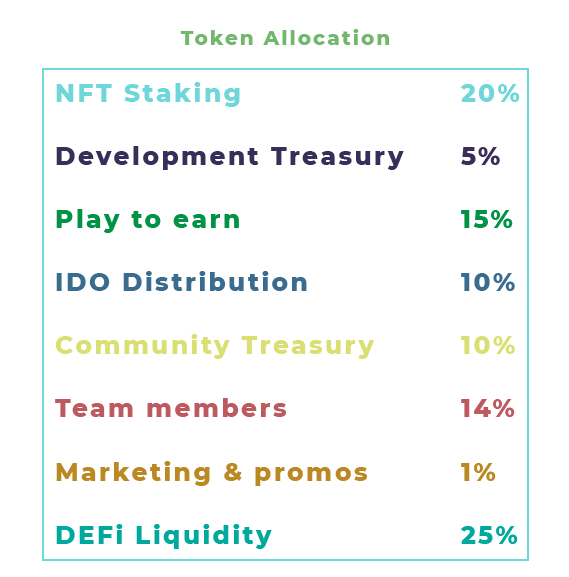
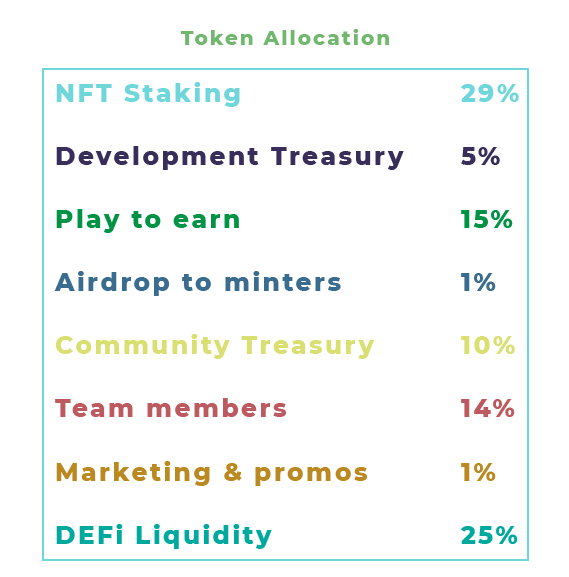
Change date

Changed region(s): [[0.0896, 0.4679, 0.5975, 0.5303], [0.8366, 0.4679, 0.8963, 0.5303], [0.8366, 0.156, 0.9262, 0.1872]]

diff --git a/index.html b/index.html
@@ -246,7 +246,7 @@
                         <div class="ms-lg-4">
                             <div class="section-title mb-4 pb-2">
                                 <h4 class="title mb-4" data-aos="fade-up" data-aos-duration="1000">The Goblin Raid Collection</h4>
-                                <p class="text-muted para-desc" data-aos="fade-up" data-aos-duration="1300">Goblin raid is a Collection of <span class="text-primary fw-bold"></span>2000 blue-chip NFTs</span> that serve as a membership key in the 
+                                <p class="text-muted para-desc" data-aos="fade-up" data-aos-duration="1300">Goblin raid is a Collection of <span class="text-primary fw-bold"></span>1000 blue-chip NFTs</span> that serve as a membership key in the 
                                     Goblin raid  DAO. Our mission is to generate revenue through Decentralized Application Developments and offering a Decentralised software as a Service to other emerging projects. 30% of fees from 
                                     all our DAPPs goes to our community treasury and staking pool.</p>
                                 <p class="text-muted para-desc mb-0" data-aos="fade-up" data-aos-duration="1400">They are different, fast, ruthless and they love money. These different breed of Goblins just went rogue 
@@ -257,10 +257,10 @@
 
                             <ul class="list-unstyled text-muted">
                                 <li class="mb-0" data-aos="fade-up" data-aos-duration="1600"><span class="text-primary h4 me-2"><i class="uil uil-check-circle align-middle"></i></span>Access to the Passive Pad System (PASSD)</li>
-                                <li class="mb-0" data-aos="fade-up" data-aos-duration="1800"><span class="text-primary h4 me-2"><i class="uil uil-check-circle align-middle"></i></span>70% of Royalties to community (80% Staking : 20% Treasury)</li>
+                                <li class="mb-0" data-aos="fade-up" data-aos-duration="1800"><span class="text-primary h4 me-2"><i class="uil uil-check-circle align-middle"></i></span>70% of Royalties to community (70% Staking : 30% Treasury)</li>
                                 <li class="mb-0" data-aos="fade-up" data-aos-duration="2000"><span class="text-primary h4 me-2"><i class="uil uil-check-circle align-middle"></i></span>50% of Launcpad to Community (80% Staking : 20% Treasury)</li>
                                 <li class="mb-0" data-aos="fade-up" data-aos-duration="2200"><span class="text-primary h4 me-2"><i class="uil uil-check-circle align-middle"></i></span>30% of DAPP nets to Community (80% Staking : 20% Treasury)</li>
-                                <li class="mb-0" data-aos="fade-up" data-aos-duration="2000"><span class="text-primary h4 me-2"><i class="uil uil-check-circle align-middle"></i></span>NFT airdrops, OG or Whitelist spots for partner projects </li>
+                                <li class="mb-0" data-aos="fade-up" data-aos-duration="2000"><span class="text-primary h4 me-2"><i class="uil uil-check-circle align-middle"></i></span>NFT airdrops, OG or Whitelist spots from partner projects </li>
                                 <li class="mb-0" data-aos="fade-up" data-aos-duration="2000"><span class="text-primary h4 me-2"><i class="uil uil-check-circle align-middle"></i></span>etc ..</li>                             
                             </ul>
 
@@ -502,13 +502,13 @@
                     <div class="col-md-3 col-6 p-4 text-center"  data-aos="fade-up" data-aos-duration="1000">
                         <img src="images/icon/speedometer.svg" height="45" alt="">
                         <h5 class="mt-2">Circulating Supply</h5>
-                        <p class="text-muted mb-0">10,000,000</p>
+                        <p class="text-muted mb-0">25,000,000</p>
                     </div><!--end col-->
                     
                     <div class="col-md-3 col-6 p-4 text-center"  data-aos="fade-up" data-aos-duration="1400">
                         <img src="images/icon/speedometer.svg" height="45" alt="">
                         <h5 class="mt-2">Total supply</h5>
-                        <p class="text-muted mb-0">100,000,000</p>
+                        <p class="text-muted mb-0">1,000,000,000</p>
                     </div><!--end col-->
                     
                     <div class="col-md-3 col-6 p-4 text-center"  data-aos="fade-up" data-aos-duration="1800">
@@ -546,9 +546,9 @@
                                 The Golden Goblet token (GGT) is a newly discovered token during our raid on the Solana Blockchain. 
                                 It's a new currency that we created so we can convert all our raided Solana Reserve. But we plan to 
                                 make this new currency one of the most valuable on the Solana blockchain. <br />
-                                GGT will have a short IDO to determine the real value of the currency. The only GGT circulating after
-                                will be those from IDO until staking and airdrops start distributing. 
-                                If you miss the IDO, you can buy them only on the most popular Solana DEXes like Serium and Radium.
+                                GGT will be available to minters during the Minting date through an airdrop. The only GGT circulating after
+                                will be those from the airdrop until staking starts distributing. 
+                                If you couldn't mint our NFT, you can buy GGT only on the most popular Solana DEXes like Serium and Radium.
                                 We believe in community engagements and other planned activities can really get a lot of adoptions 
                                 making it one of the most or widely used tokens in blockchain. One of the few ways one can get this 
                                 token is by holding our NFTs, staking, promoting our products and services etcs.</p>
@@ -571,9 +571,9 @@
                             <p class="text-muted para-desc"  data-aos="fade-up" data-aos-duration="1400">Our <span class="text-primary fw-bold">$GGT</span> token distribution is a well calculated long term economic goal. Our goal is to create value while we provide an even distribution.</p>
                             <p class="text-muted para-desc"  data-aos="fade-up" data-aos-duration="1600">This is why we are going to focus on uses cases to create demand for the token.</p>
                             <ul class="list-unstyled text-muted">
-                                <li class="mb-1"  data-aos="fade-up" data-aos-duration="1800"><span class="text-primary h5 me-2"><i class="uil uil-check-circle align-middle"></i></span>20% of supply will be going to our NFT Stakers</li>
+                                <li class="mb-1"  data-aos="fade-up" data-aos-duration="1800"><span class="text-primary h5 me-2"><i class="uil uil-check-circle align-middle"></i></span>29% of supply will be going to our NFT Stakers</li>
                                 <li class="mb-1"  data-aos="fade-up" data-aos-duration="2200"><span class="text-primary h5 me-2"><i class="uil uil-check-circle align-middle"></i></span>15% will be distributed through our play to earn games</li>
-                                <li class="mb-1"  data-aos="fade-up" data-aos-duration="2600"><span class="text-primary h5 me-2"><i class="uil uil-check-circle align-middle"></i></span>10% will be sold in a public IDO to create adoption and value/price</li>
+                                <li class="mb-1"  data-aos="fade-up" data-aos-duration="2600"><span class="text-primary h5 me-2"><i class="uil uil-check-circle align-middle"></i></span>1% will be airdropped to our NFT minters</li>
                             </ul>
                         </div>
                     </div><!--end col-->
@@ -585,7 +585,7 @@
                                     <div class="col-12 mt-4 mt-lg-0 pt-2 pt-lg-0"  data-aos="fade-down" data-aos-duration="1000">
                                         <div class="card counter-box border-0 bg-light bg-gradient shadow text-center rounded">
                                             <div class="card-body py-5">
-                                                <h2 class="mb-0"><span class="counter-value" data-target="20">1</span>%</h2>
+                                                <h2 class="mb-0"><span class="counter-value" data-target="29">1</span>%</h2>
                                                 <h5 class="counter-head mb-0">NFT Staking Supply</h5>
                                             </div>
                                         </div>
@@ -870,7 +870,7 @@
                                 <div id="collapseOne" class="accordion-collapse border-0 collapse show" aria-labelledby="headingOne"
                                     data-bs-parent="#accordionExample">
                                     <div class="accordion-body text-muted bg-white">
-                                        There will be 2000 Goblin Raid NFT Bluechips on the Solana blockchain.
+                                        There will be 1000 Goblin Raid NFT Bluechips on the Solana blockchain.
                                     </div>
                                 </div>
                             </div>
@@ -885,7 +885,7 @@
                                 <div id="collapseTwo" class="accordion-collapse border-0 collapse" aria-labelledby="headingTwo"
                                     data-bs-parent="#accordionExample">
                                     <div class="accordion-body text-muted bg-white">
-                                        Minting will start on Saturday 7th May 2022.
+                                        Minting will start on Wednesday 11th May 2022.
                                     </div>
                                 </div>
                             </div>
@@ -900,7 +900,7 @@
                                 <div id="collapseThree" class="accordion-collapse border-0 collapse" aria-labelledby="headingThree"
                                     data-bs-parent="#accordionExample">
                                     <div class="accordion-body text-muted bg-white">
-                                        Minting will have two prices, Whitelisted members will mint @ 0.6 SOL while public mint @ 0.8 SOL.
+                                        Minting price is set at 0.25 SOL.
                                     </div>
                                 </div>
                             </div>
@@ -915,8 +915,8 @@
                                 <div id="collapseFour" class="accordion-collapse border-0 collapse" aria-labelledby="headingFour"
                                     data-bs-parent="#accordionExample">
                                     <div class="accordion-body text-muted bg-white">
-                                        Yes.
-                                        We will be whitelisting members in our discord server. Kindly check over on discord for any available whitelist spot.
+                                        No.
+                                        The collection will have no whitelist like everyone is doing. We want as many people to have it as possible.
                                     </div>
                                 </div>
                             </div>

diff --git a/js/plugins.init.js b/js/plugins.init.js
@@ -349,7 +349,7 @@ try {
 try {
     if(document.getElementById("days")){
         // The data/time we want to countdown to
-        var eventCountDown = new Date("May 7, 2022 18:00:00").getTime();
+        var eventCountDown = new Date("May 11, 2022 16:00:00").getTime();
 
         // Run myfunc every second
         var myfunc = setInterval(function () {
